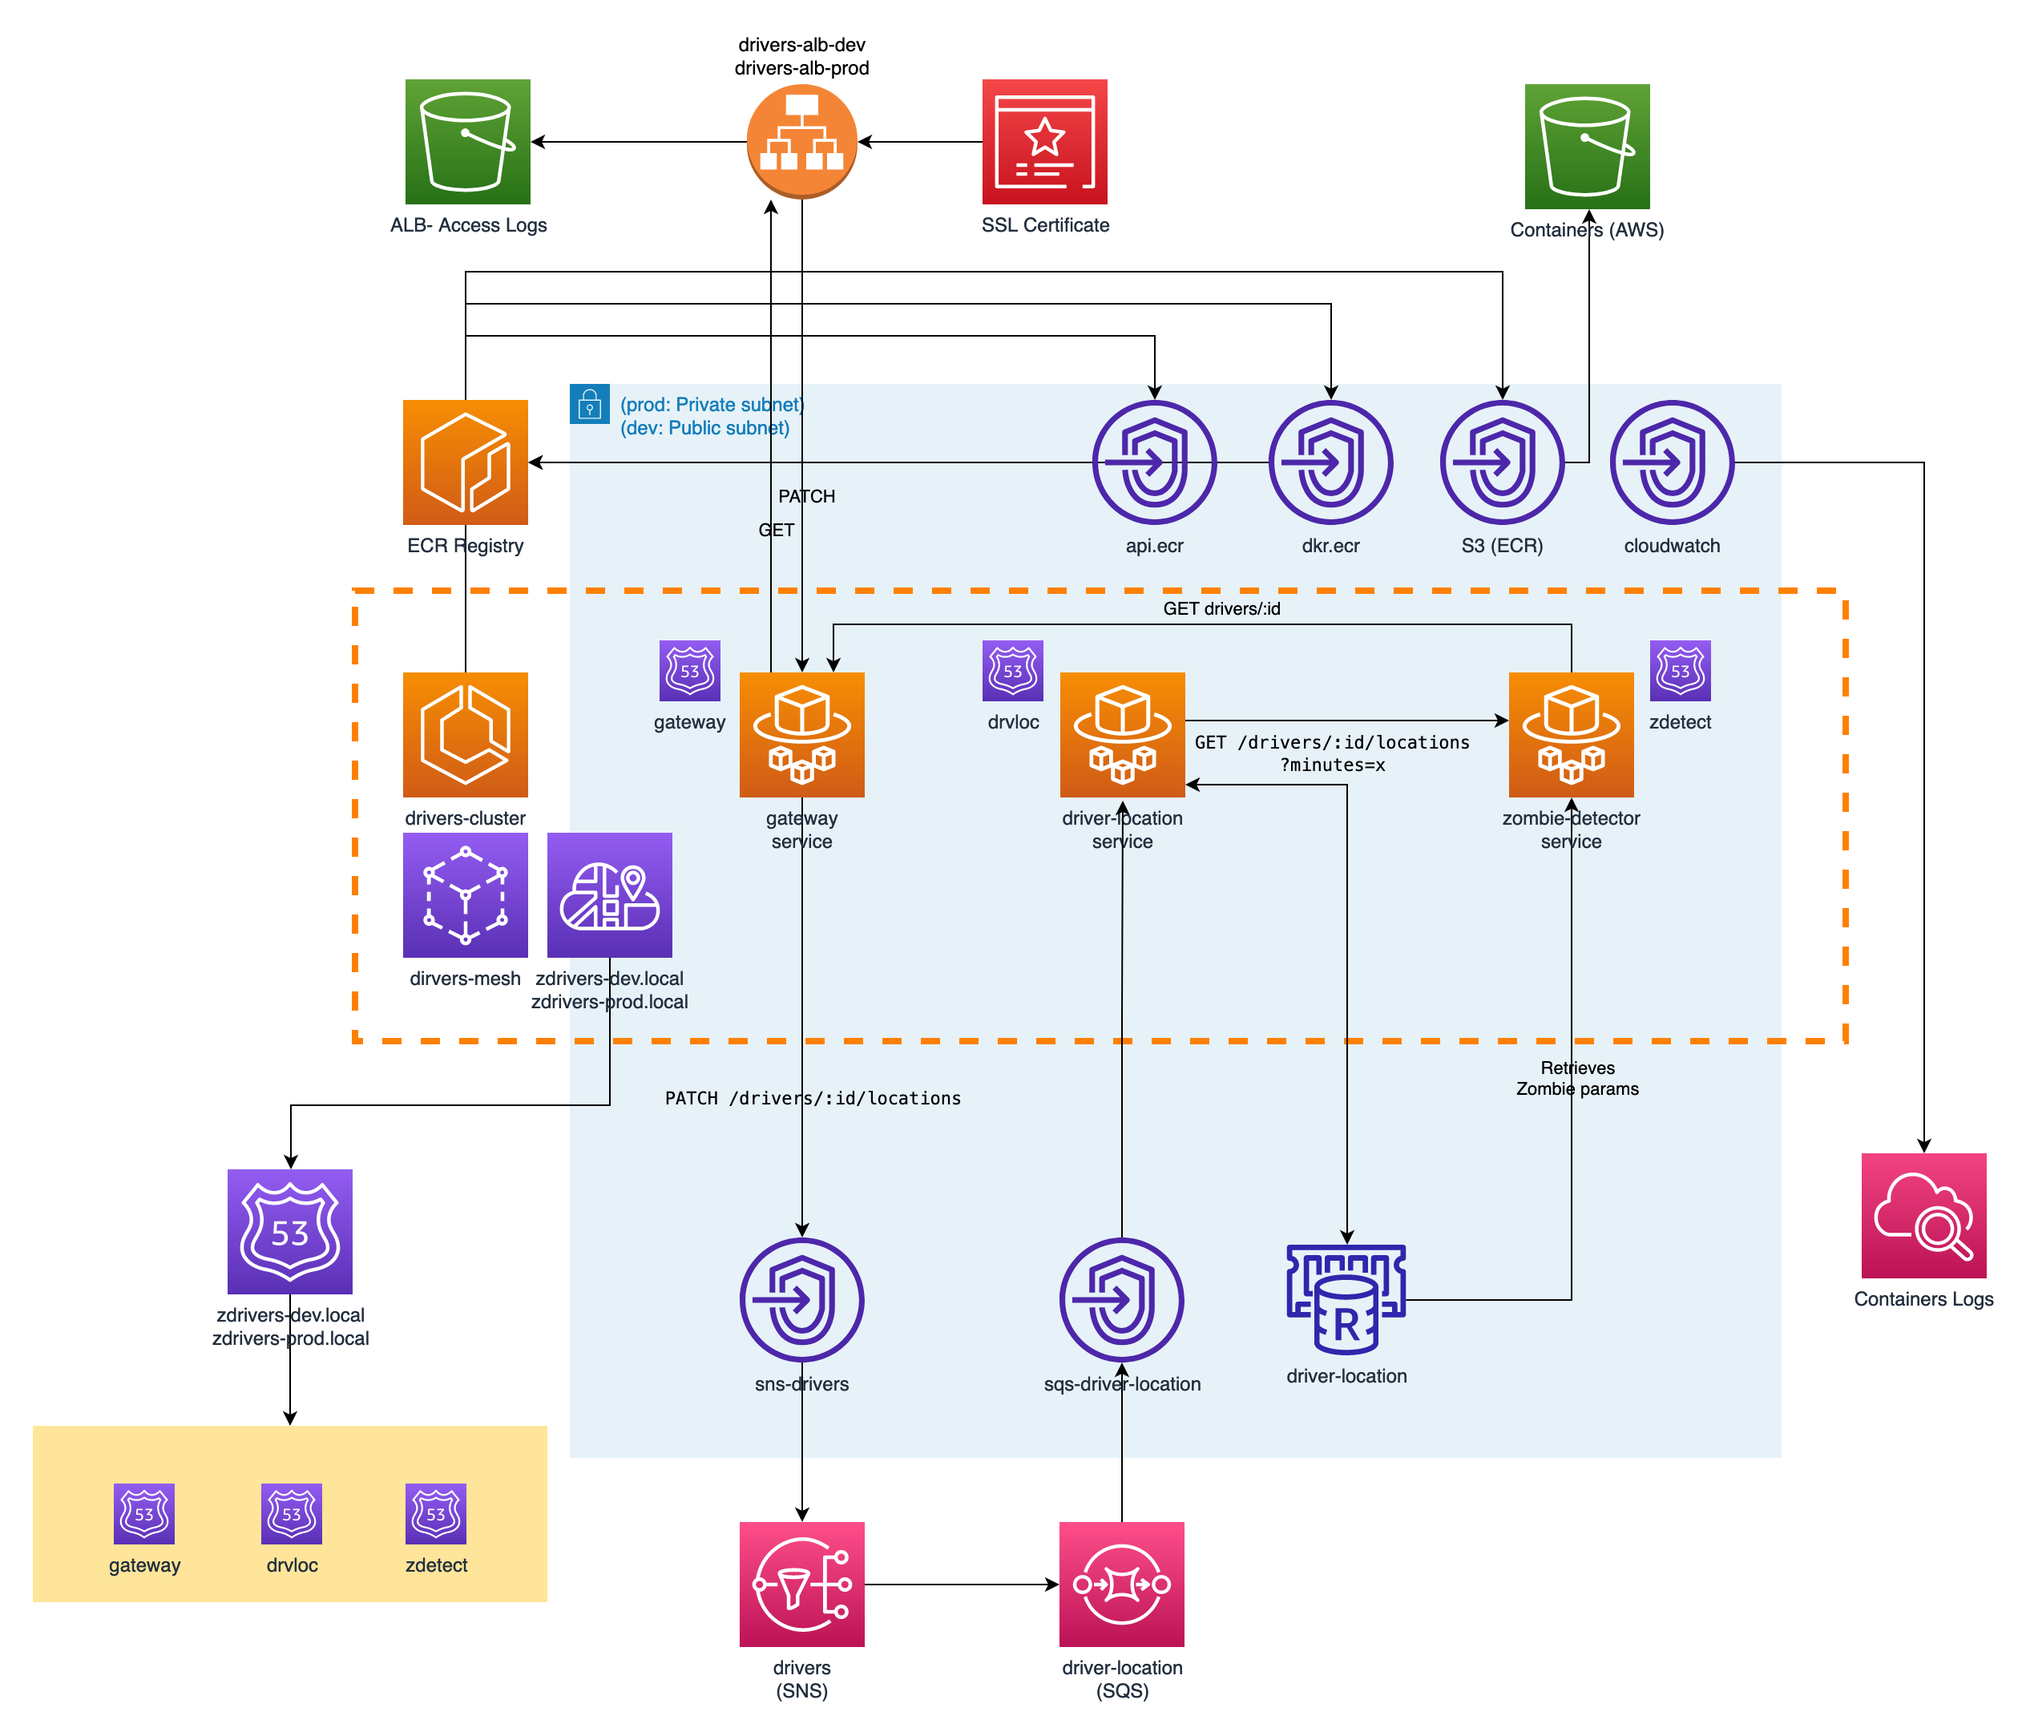
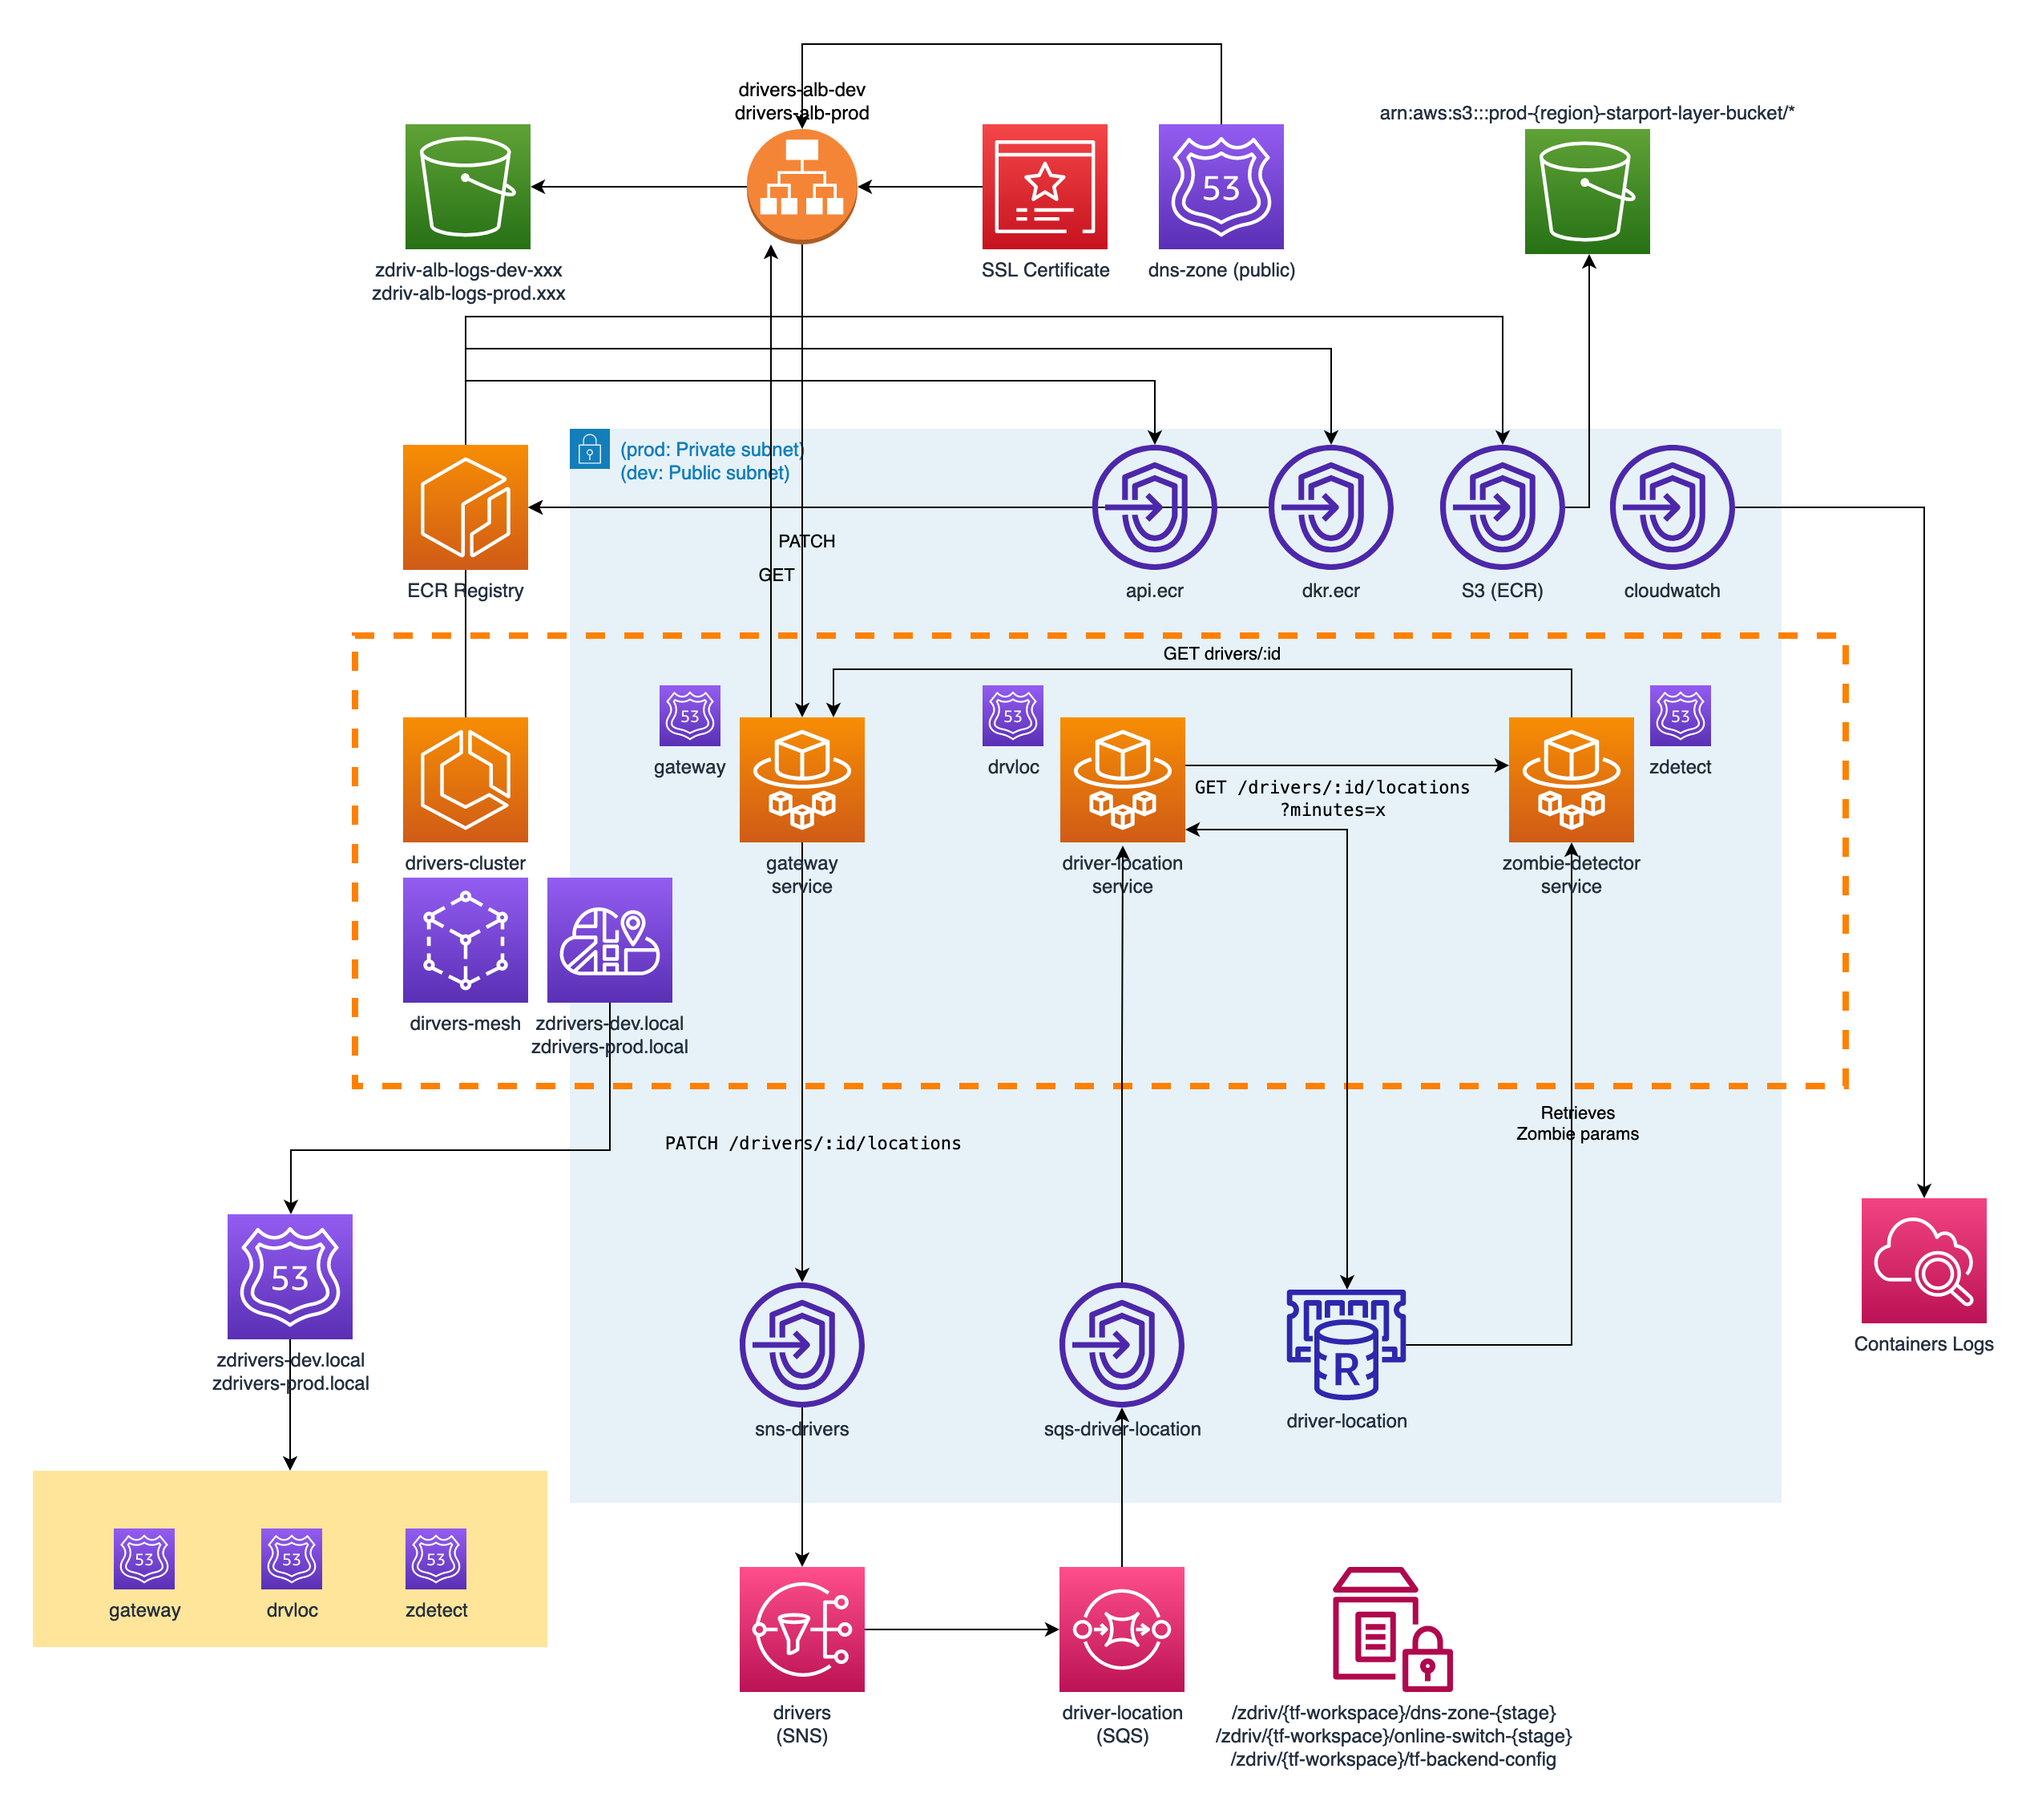
Updated documentation

diff --git a/README.md b/README.md
@@ -3,9 +3,13 @@ Zombie drivers take over AWS with a set of microservices written in Node.js!
 
 - [1. Overview](#1-overview)
   - [1.1. Description](#11-description)
+  - [1.2 Architectural diagram](#12-architectural-diagram)
 
 # 1. Overview
 ## 1.1. Description
 This is a revisited version of [my repo](https://github.com/silvestriluca/zombie-drivers) with the following differences:
 - Code is ported from Go to modern NodeJS (v16)
 - Services are meant to de deployed within AWS and use some of their services
+
+## 1.2 Architectural diagram
+![Diagram](./img/zombie-driver.png)
